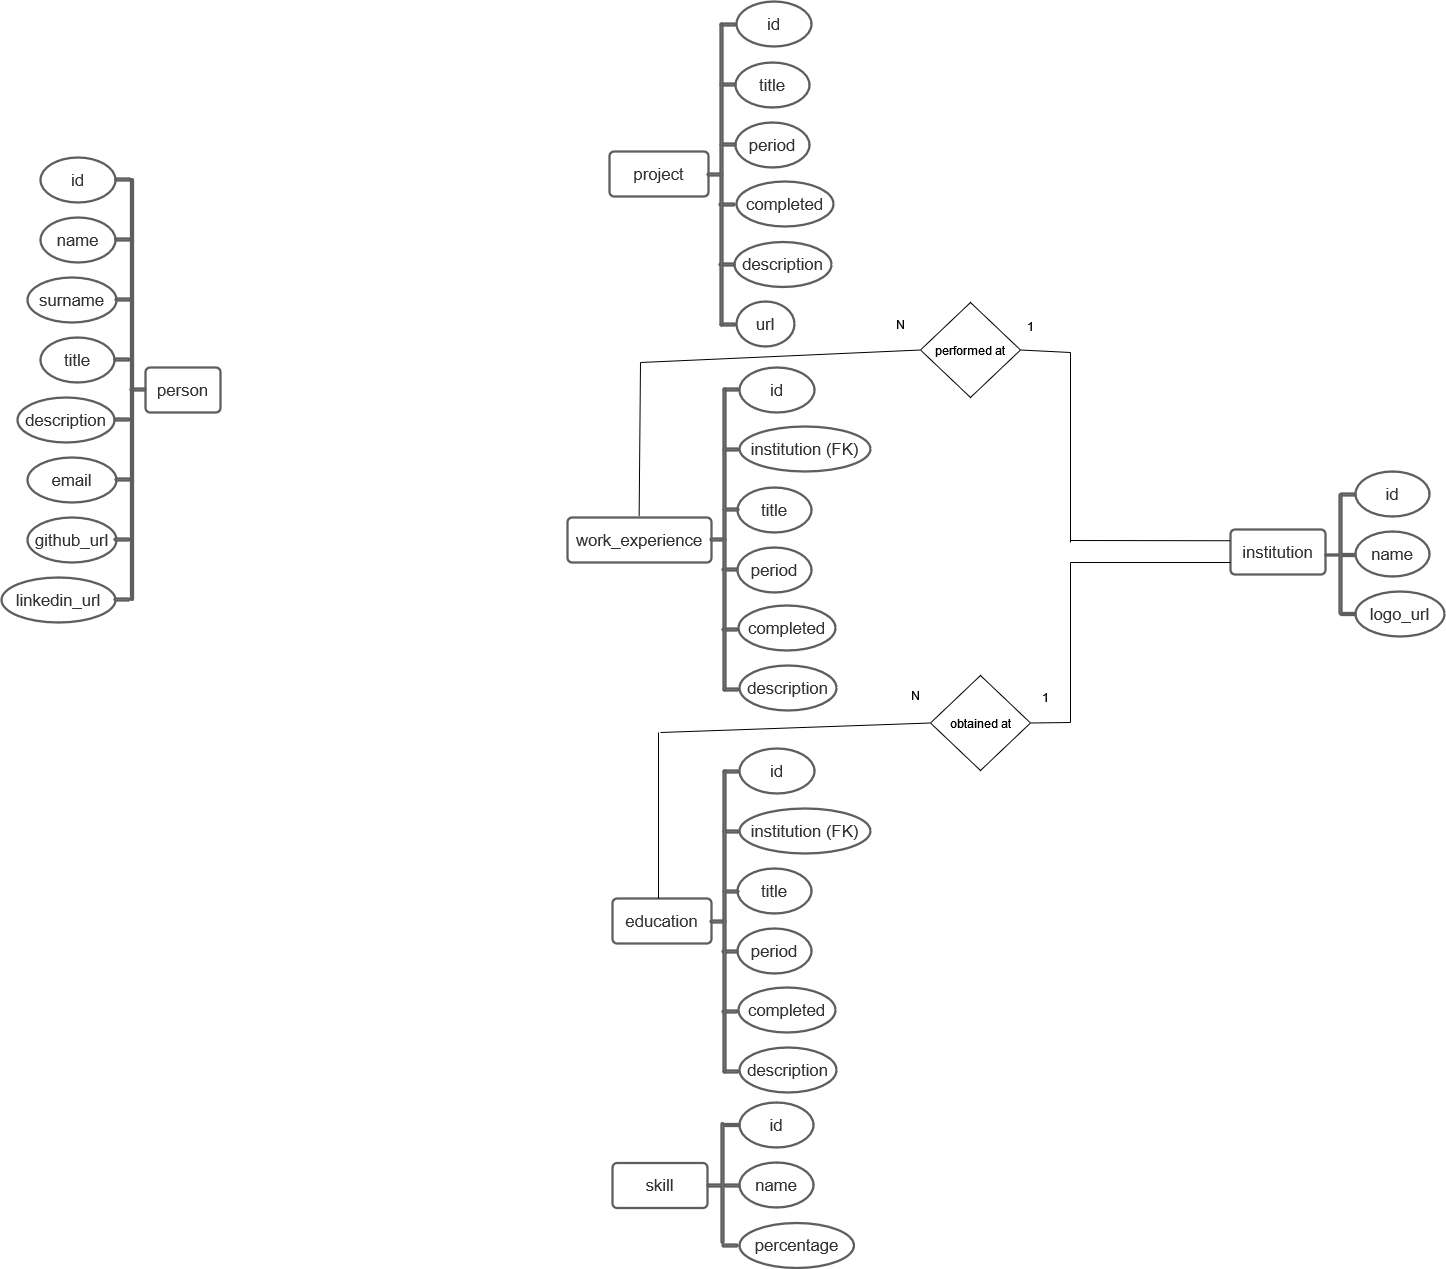
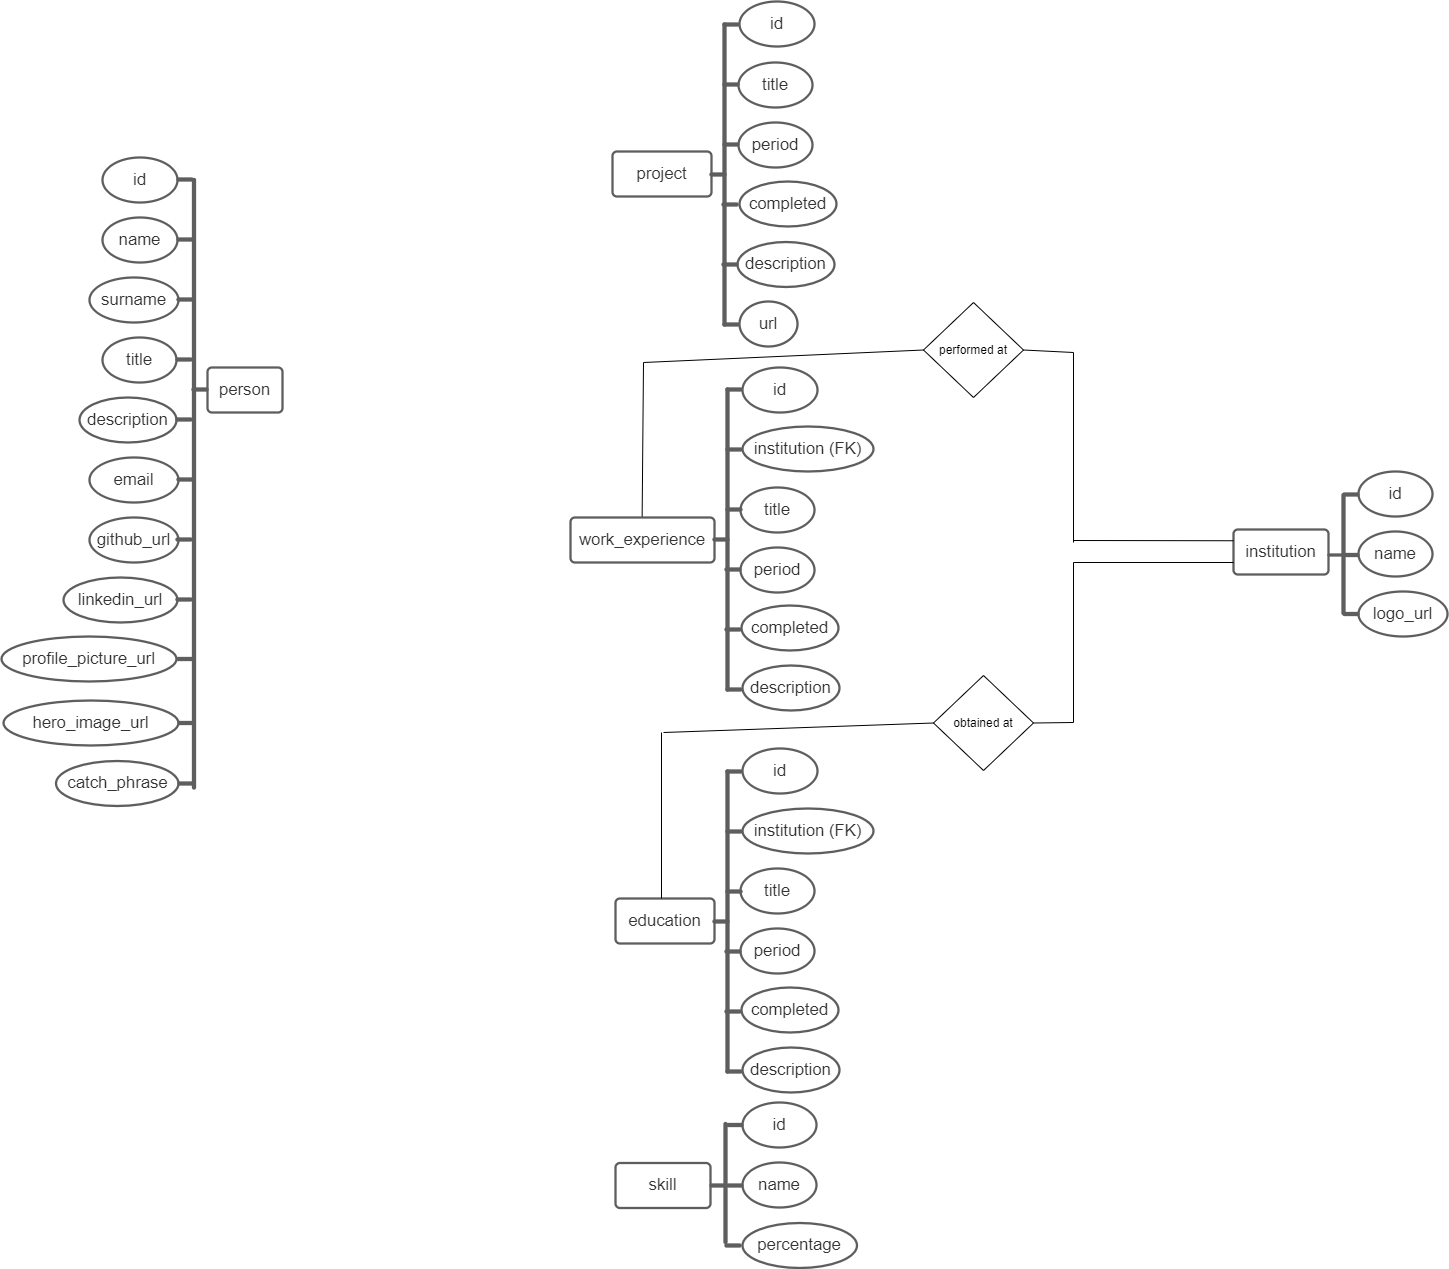
Modificada tabla person

diff --git a/portfolio/src/main/java/com/sebastian/portfolio/controller/PersonController.java b/portfolio/src/main/java/com/sebastian/portfolio/controller/PersonController.java
@@ -1,14 +1,10 @@
 package com.sebastian.portfolio.controller;
 
 import com.sebastian.portfolio.model.entities.Person;
-import com.sebastian.portfolio.model.exceptions.PersonNotFoundException;
 import com.sebastian.portfolio.model.repositories.PersonRepository;
-import java.util.List;
 import lombok.AllArgsConstructor;
-import org.springframework.web.bind.annotation.DeleteMapping;
 import org.springframework.web.bind.annotation.GetMapping;
 import org.springframework.web.bind.annotation.PathVariable;
-import org.springframework.web.bind.annotation.PostMapping;
 import org.springframework.web.bind.annotation.PutMapping;
 import org.springframework.web.bind.annotation.RequestBody;
 import org.springframework.web.bind.annotation.RestController;
@@ -24,18 +20,8 @@ public class PersonController {
     private final PersonRepository personRepository;
 
     @GetMapping("/api/person")
-    public List<Person> all() {
-        return personRepository.findAll();
-    }
-
-    @GetMapping("/api/person/{id}")
-    public Person one(@PathVariable Integer id) {
-        return personRepository.findById(id).orElseThrow(() -> new PersonNotFoundException(id));
-    }
-
-    @PostMapping("/api/person")
-    public Person newPerson(@RequestBody Person person) {
-        return personRepository.save(person);
+    public Person one() {
+        return personRepository.findAll().get(0);
     }
 
     @PutMapping("/api/person/{id}")
@@ -48,6 +34,9 @@ public class PersonController {
             person.setName(newPerson.getName());
             person.setSurname(newPerson.getSurname());
             person.setTitle(newPerson.getTitle());
+            person.setProfilePictureUrl(newPerson.getProfilePictureUrl());
+            person.setCatchPhrase(newPerson.getCatchPhrase());
+            person.setHeroImageUrl(newPerson.getHeroImageUrl());
             return personRepository.save(person);
         }).orElseGet(() -> {
             newPerson.setId(id);
@@ -55,8 +44,4 @@ public class PersonController {
         });
     }
 
-    @DeleteMapping("/api/person/{id}")
-    public void deletePerson(@PathVariable Integer id) {
-        personRepository.deleteById(id);
-    }
 }

diff --git a/portfolio/src/main/java/com/sebastian/portfolio/model/entities/Person.java b/portfolio/src/main/java/com/sebastian/portfolio/model/entities/Person.java
@@ -29,4 +29,10 @@ public class Person {
     private String githubUrl;
     @Column(name = "linkedin_url")
     private String linkedinUrl;
+    @Column(name = "profile_picture_url")
+    private String profilePictureUrl;
+    @Column(name = "hero_image_url")
+    private String heroImageUrl;
+    @Column(name = "catch_phrase")
+    private String catchPhrase;
 }
